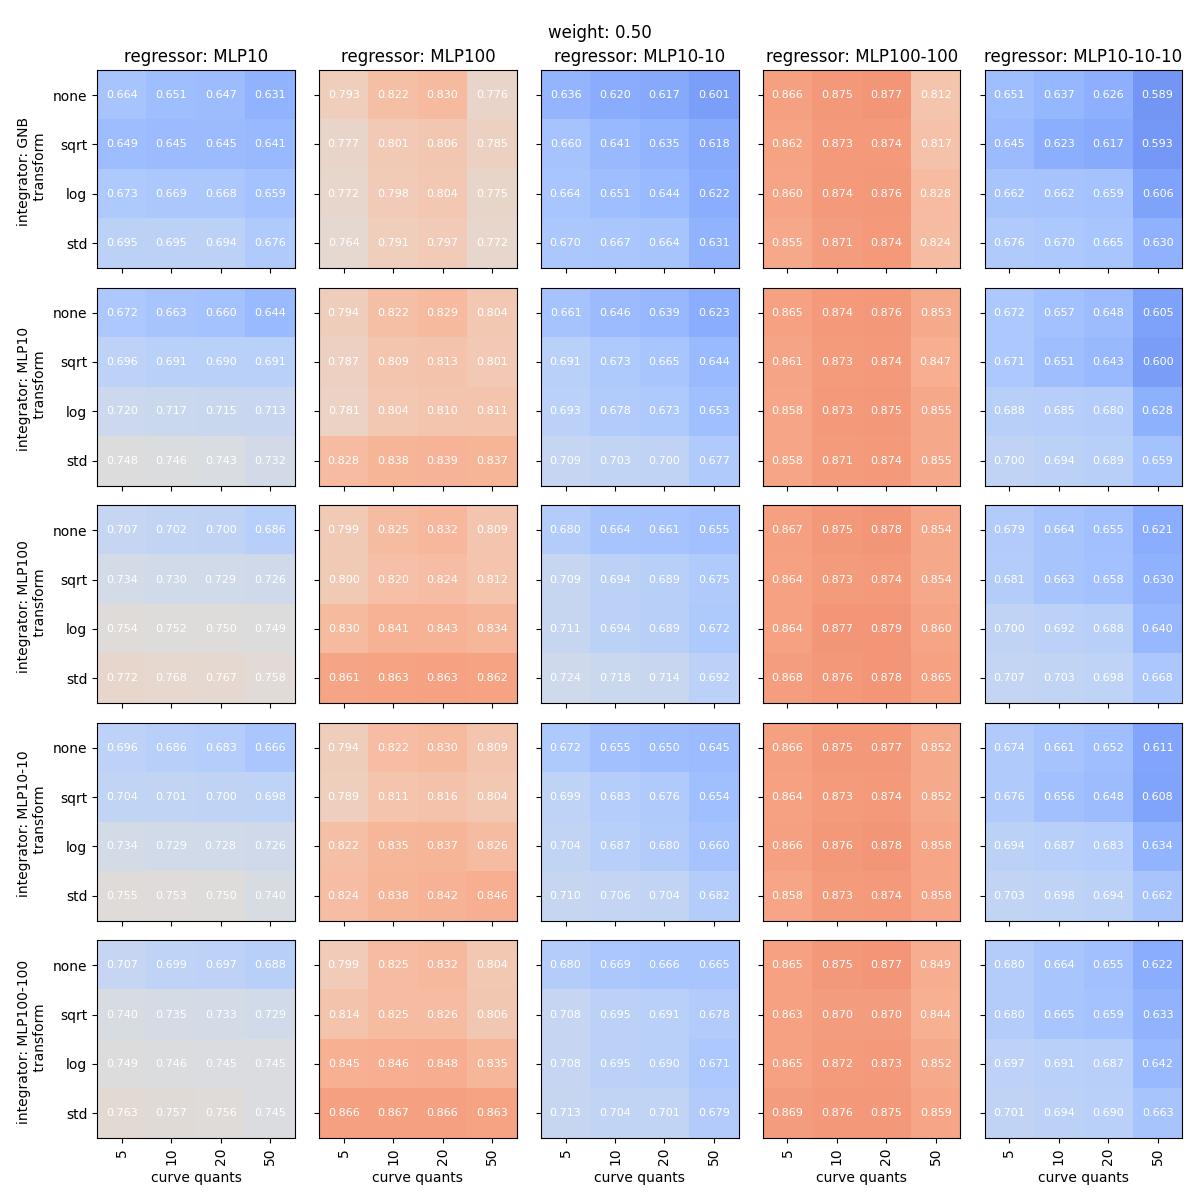
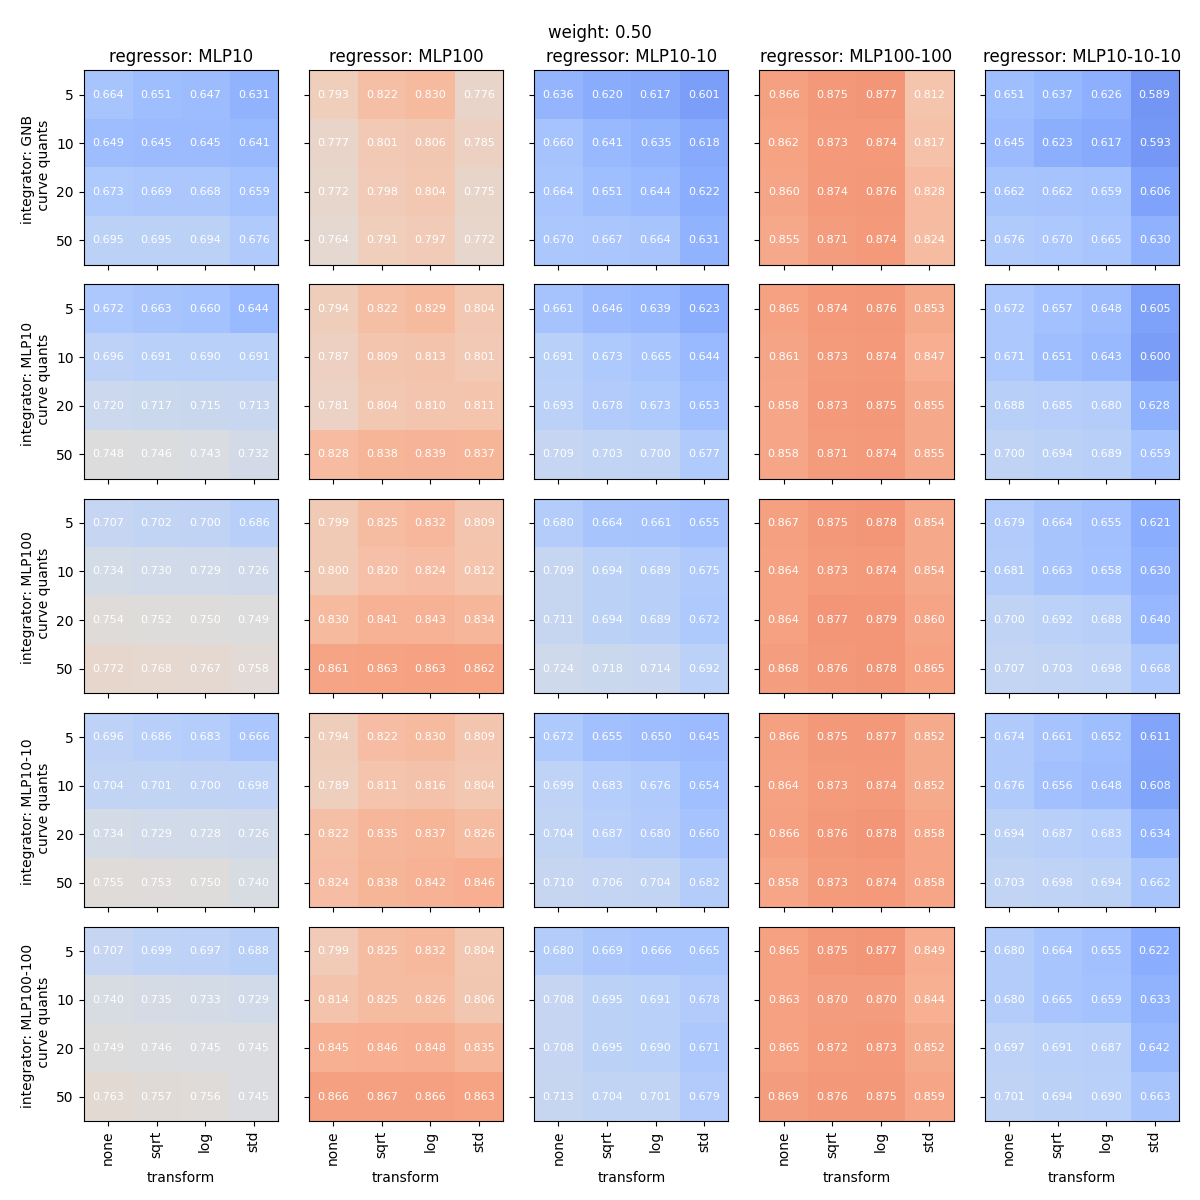
e1 est plots part 1

diff --git a/E1_est_plot.py b/E1_est_plot.py
@@ -1,0 +1,59 @@
+import numpy as np
+import matplotlib.pyplot as plt
+
+
+factors = [1, 3, 5, 10]
+n_centroids = [2, 3, 5, 7, 9]
+
+n_iter = 256
+curve_quants = [5,10,20,50]
+base_regressors = [
+    'MLP10',
+    'MLP100',
+    'MLP10-10',
+    'MLP100-100',
+    'MLP10-10-10',
+    'MLP100-100-100'
+]
+transforms = ['none', 'sqrt', 'log', 'std_norm']
+test_space = np.linspace(-5,5,1000).reshape(-1, 1)
+
+res = np.load('results/E1_est.npy')
+res = res[:, :, :,0, :, :, :, 1] #get MSE only + rm integrator axis
+
+res_pred = np.load('results/E1_est_v.npy')
+
+print(res.shape) # factors x centroids x cq  x reg x transforms x iters
+print(res_pred.shape) # factors x centroids x cq  x reg x (original +transforms) x samples
+
+res = res[..., -1] # last iteration
+print(res.shape) # cq x integrators x reg x transforms
+
+for factor_id, factor in enumerate(factors):
+
+    fig, ax = plt.subplots(5,6,figsize=(12,12), sharex=True, sharey=True)
+    plt.suptitle('factor: %i' % factor)
+    
+    for cent_id, cent in enumerate(n_centroids):
+        for r_id, r in enumerate(base_regressors):
+            
+            if cent_id==0:
+                ax[cent_id, r_id].set_title('%s' % (r))
+                ax[-1, r_id].set_xlabel('curve quants')
+
+            if r_id==0:
+                ax[cent_id, r_id].set_ylabel('%i centroids \n transform' % cent)
+                
+            ax[cent_id, r_id].imshow(res[factor_id, cent_id, :, r_id, :],cmap='coolwarm')
+            
+            ax[cent_id, r_id].set_xticks(np.arange(4), curve_quants, rotation=90)
+            ax[cent_id, r_id].set_yticks(np.arange(4), transforms)
+            
+            for _a, __a in enumerate(curve_quants):
+                for _b, __b in enumerate(transforms):
+                    ax[cent_id, r_id].text(_b, _a, "%.3f" % (
+                        res[factor_id, cent_id, _a, r_id, _b]
+                        ) , va='center', ha='center', c='white', fontsize=8)
+            
+        plt.tight_layout()
+        plt.savefig('figures/E1_est_mse_f%i.png' % factor)

diff --git a/E1_clf_plot.py b/E1_clf_plot.py
@@ -33,6 +33,7 @@ res_mean = np.mean(res, axis=(1,-1))
 print(res_mean.shape)
 
 # res_mean[:, 0, 0, 3, 0] = 0 # integrator 0, regressor 3
+# res_mean[:, 0, 0, 0, 3] = 0 # cq 0, transform 3
 
 for w_id, (_, w) in enumerate(weights):
     
@@ -68,15 +69,15 @@ for w_id, (_, w) in enumerate(weights):
             
             if itg_id==0:
                 ax[itg_id, r_id].set_title('regressor: %s' % (r))
-                ax[-1, r_id].set_xlabel('curve quants')
+                ax[-1, r_id].set_xlabel('transform')
 
             if r_id==0:
-                ax[itg_id, r_id].set_ylabel('integrator: %s \n transform' % (itg))
+                ax[itg_id, r_id].set_ylabel('integrator: %s \n curve quants' % (itg))
                 
             ax[itg_id, r_id].imshow(res_mean[w_id, :, itg_id, r_id, :], vmin=0.5, vmax=1, cmap='coolwarm')
             
-            ax[itg_id, r_id].set_xticks(np.arange(4), curve_quants, rotation=90)
-            ax[itg_id, r_id].set_yticks(np.arange(4), transforms)
+            ax[itg_id, r_id].set_xticks(np.arange(4), transforms, rotation=90)
+            ax[itg_id, r_id].set_yticks(np.arange(4), curve_quants)
             
             for _a, __a in enumerate(curve_quants):
                 for _b, __b in enumerate(transforms):
